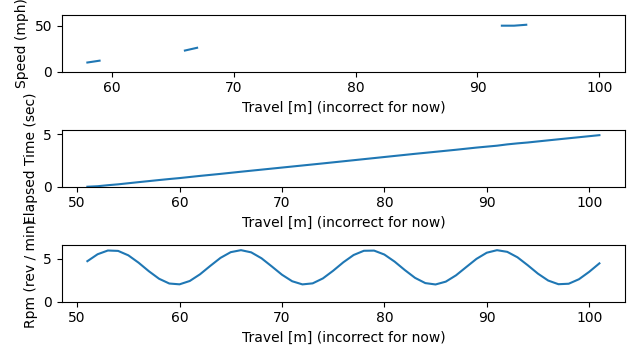
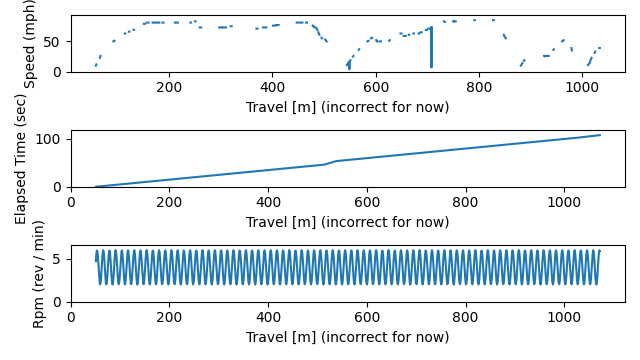
Fix stream_times off by one

diff --git a/stream.py b/stream.py
@@ -21,6 +21,8 @@ def stream_files(path):
             img_rgb = cv2.cvtColor(img, cv2.COLOR_BGR2RGB)
             yield img_rgb
 
+    print("last filename", filename)
+
 
 WINDOW_NAME = "Preview"
 
@@ -56,17 +58,18 @@ def stream_speed(path, verbose=False, interactive=False):
         if matches is not None and len(matches.groups()) == 1:
             happy_regex = True
 
-        print(idx, "pytesseract")
-        print(
-            "ocr text",
-            (len(ocr_speed), ocr_speed) if len(ocr_speed) > 1 else "? " + ocr_speed,
-        )
-        print(
-            idx,
-            "Happy Regex?",
-            happy_regex,
-            matches.groups() if matches is not None else "x-x-x",
-        )
+        if verbose:
+            print(idx, "pytesseract")
+            print(
+                "ocr text",
+                (len(ocr_speed), ocr_speed) if len(ocr_speed) > 1 else "? " + ocr_speed,
+            )
+            print(
+                idx,
+                "Happy Regex?",
+                happy_regex,
+                matches.groups() if matches is not None else "x-x-x",
+            )
         if happy_regex:
             (speed,) = matches.groups()
             yield idx, int(speed)
@@ -110,6 +113,7 @@ def stream_times(path, verbose=False, interactive=False):
                 if verbose:
                     print("Defer", idx)
                 last_time = (idx, current_time)
+
                 continue
 
             last_idx, last_duration = last_time
@@ -142,7 +146,7 @@ def stream_times(path, verbose=False, interactive=False):
     assert last_time is not None
 
     # end of loop, give the last time
-    for yield_idx in range(last_time[0], idx):
+    for yield_idx in range(last_time[0], idx + 1):
         if verbose:
             print("Cleanup", idx)
         yield yield_idx, last_duration + (dt * (yield_idx - last_idx))
@@ -206,21 +210,15 @@ def main():
         indexes.append(idx)
         elapsed_time.append(delta_t)
 
-        if idx > 150:
-            break
-
     indexes_checksum = []
     speeds = []
     for idx, speed in tqdm(stream_speed("data/lake_nakaru_r/001/")):
         indexes_checksum.append(idx)
         speeds.append(speed)
 
-        if idx > 100:
-            break
-
-    # TODO: hack for when stopping short
-    indexes = indexes[: len(indexes_checksum)]
-    elapsed_time = elapsed_time[: len(indexes_checksum)]
+    # # TODO: hack for when stopping short
+    # indexes = indexes[: len(indexes_checksum)]
+    # elapsed_time = elapsed_time[: len(indexes_checksum)]
 
     if len(indexes) != len(indexes_checksum):
         print(len(indexes), len(elapsed_time), len(indexes_checksum), len(speeds))
@@ -229,6 +227,12 @@ def main():
         )
     for idx, (lhs, rhs) in enumerate(zip(indexes, indexes_checksum)):
         if lhs != rhs:
+            if idx < 10:
+                print(indexes[:idx])
+                print(indexes_checksum[:idx])
+            else:
+                print(indexes[idx - 10 : idx + 1])
+                print(indexes_checksum[idx - 10 : idx + 1])
             raise AssertionError("Mismatched index %d: %s, %s" % (idx, lhs, rhs))
 
     plot(indexes=indexes, elapsed_time=elapsed_time, speeds=speeds)
